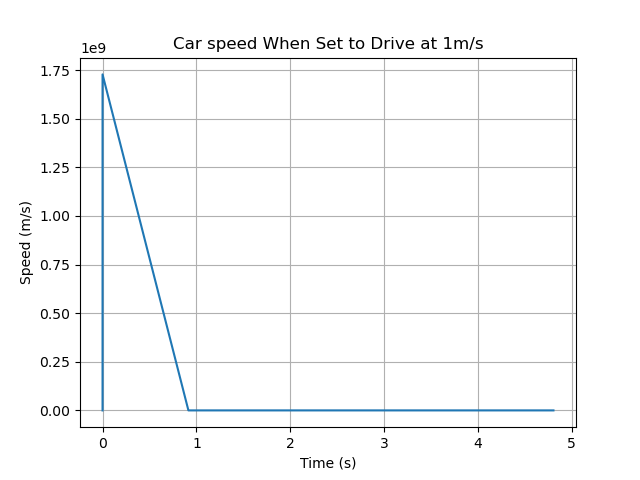
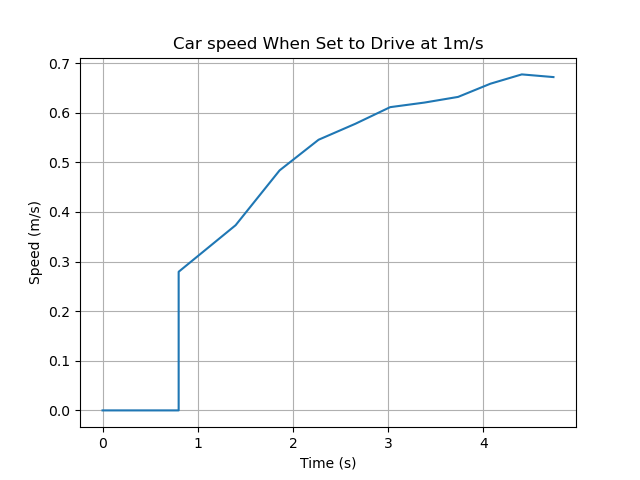
step 2

diff --git a/stepInput.py b/stepInput.py
@@ -80,8 +80,8 @@ while time.time() - start_time < run_time:
         new_magnet_time = time.time()
         dt = new_magnet_time - prev_magnet_time
         if prev_speed == 0:
-            times.append(0)
-            speeds.append(new_magnet_time)
+            times.append(new_magnet_time-start_time)
+            speeds.append(0)
         prev_speed = distance/dt
         speeds.append(prev_speed)
         times.append(new_magnet_time-start_time)
